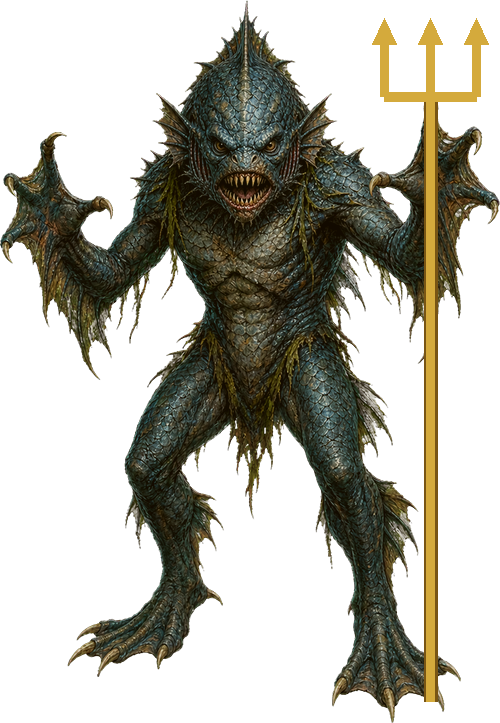
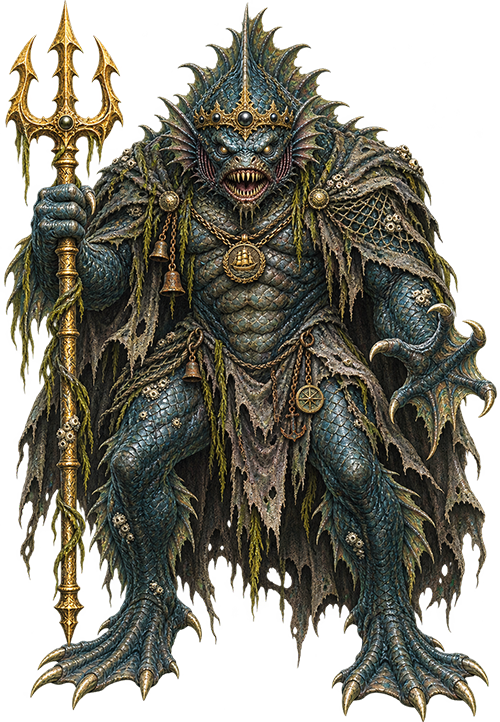
Mireman King: Danny's art; drops the Mireman King's Trident (4-7, +3 vs fire creatures via new bonusDamageVs.tags)
Claude-Session: https://claude.ai/code/session_014Hg99iTN2A86cVn2jyJ9zk

diff --git a/js/data/items.js b/js/data/items.js
@@ -584,6 +584,22 @@ const ITEMS = {
   // they resolve Mara's quest — a deliberate northward-pull hook toward the
   // King's Castle (B2). King Aldric of Aldermoor summoned Mara from distant
   // Vaelanor over a grave and urgent matter.
+  // The Mireman King's Trident (2026-11-12, Danny) — a guaranteed drop from
+  // the Mireman King (C1D). Same base damage as the longsword/cutlass tier,
+  // plus +3 against anything flagged `fire: true` in enemies.js (none yet;
+  // fire enemies are planned). `tags` on bonusDamageVs is read by main.js's
+  // weaponDamage. Not enchantable (bonusDamageVs takes it off the allow-list).
+  trident: {
+    id: 'trident',
+    name: 'Mireman King’s Trident',
+    image: 'assets/images/trident.png',
+    description: 'A gold trident pried from the Mireman King’s webbed grip, still slick with bilge-water and threaded with weed. The sea clings to it, and anything made of flame will shrink from its tines.',
+    questItem: false,
+    slot: 'mainhand',
+    damage: { min: 4, max: 7 },
+    bonusDamageVs: { tags: ['fire'], amount: 3, label: 'fire creatures' },
+    price: 70,
+  },
   royal_summons: {
     id: 'royal_summons',
     name: 'Royal Summons',

diff --git a/js/data/enemies.js b/js/data/enemies.js
@@ -9,6 +9,9 @@
 // {min, max} range rolled via battle.rollDamage() when a hit lands on the
 // player. speed drives this round's turn order (battle.turnOrder) alongside
 // the player's stats.speed.
+//
+// `fire: true` (planned, none yet) marks a fire creature: the Mireman King's
+// Trident (items.js) does +3 against it via bonusDamageVs.tags.
 export default {
   // ---- The two Highwaymen (C2 caravan-rest ambush, 2026-09-18) ----
   // Both are NAMED "Highwayman" on purpose (Danny) — the player never learns
@@ -265,7 +268,7 @@ export default {
     damage: { min: 2, max: 6 },
     summon: { every: 3, pool: ['mireman'] },
     poisonable: true,
-    drops: { gold: { min: 20, max: 30 }, loot: [{ id: 'health_potion', chance: 1, qty: 2 }, { id: 'magic_potion', chance: 0.5 }, { id: 'fishing_bait', chance: 1 }] },
+    drops: { gold: { min: 20, max: 30 }, loot: [{ id: 'trident', chance: 1 }, { id: 'health_potion', chance: 1, qty: 2 }, { id: 'magic_potion', chance: 0.5 }, { id: 'fishing_bait', chance: 1 }] },
   },
 
   // Rootweaver (D4 shortcut ambushes, 2026-07-11) — a deliberate "too tough

diff --git a/js/main.js b/js/main.js
@@ -244,7 +244,11 @@ function weaponDamage(slot = 'mainhand', targetId = null) {
   // her aboard the Maiden's Grace) - see items.js's bonusDamageVs and
   // buildMaraHollowmastDialog. No-ops for the unarmed flat-number fallback
   // (no `item`, so no bonusDamageVs to check).
-  if (item?.bonusDamageVs && targetId && item.bonusDamageVs.ids.includes(targetId)) {
+  // `tags` (2026-11-12, the Mireman King's Trident): match on an enemy catalog
+  // flag instead of a list of ids, e.g. tags: ['fire'] hits any enemy with
+  // `fire: true` in enemies.js. Either list can be empty.
+  const bv = item?.bonusDamageVs;
+  if (bv && targetId && ((bv.ids || []).includes(targetId) || (bv.tags || []).some((t) => ENEMIES[targetId]?.[t]))) {
     return { min: dmg.min + item.bonusDamageVs.amount, max: dmg.max + item.bonusDamageVs.amount };
   }
   return dmg;

diff --git a/CLAUDE.md b/CLAUDE.md
@@ -2028,3 +2028,4 @@ Danny reworked Mirelle's `vegetable_delivery` quest. **This supersedes the older
 - **Vitality Potion restores ALL health, Arcana Potion ALL magic** (plus the +1 max), in `usePotion`; descriptions and battle detail card updated.
 - **Thornback quest fix:** C3's glade has three thornback boars identical to C2's, and Tovan only counted C2's, so killing the C3 three left him saying "There are still 3". `thornbacksSlain()` now counts boars slain in C2 and C3 (via `snapshotWorlds()`, so unbuilt scenes count); any three complete it. Killing them before talking to Tovan now offers the turn-in straight away.
 - **Chestnuts checked, no change:** 10 exist (7 ground, Emeric, Roderick, Harlan); Mateo needs 10 and Kwame's pastry needs Eggatha's egg (1 chestnut) = 11. Already one short.
+- **Mireman King art + trident (2026-11-12, round 2):** Danny's real art replaced the stand-ins (`mireman_king.png` 500x722, `mireman_king_overhead.png` 58x63). He now always drops **`trident`** ("Mireman King’s Trident", `trident.png`, Danny's 1024x1536 art trimmed and fitted to the usual 500x500): mainhand, 4-7 (longsword tier), price 70, **+3 vs fire creatures**. New: `bonusDamageVs` accepts **`tags`** as well as `ids` (main.js `weaponDamage`); the trident uses `tags: ['fire']`, which matches any enemy with `fire: true` in enemies.js. No fire enemies exist yet, so give future ones `fire: true`. Not enchantable (bonusDamageVs keeps it off the allow-list). The bonus shows on the item's stat line ("4-7 DMG (+3 vs fire creatures)") and in Stats > Damage.
